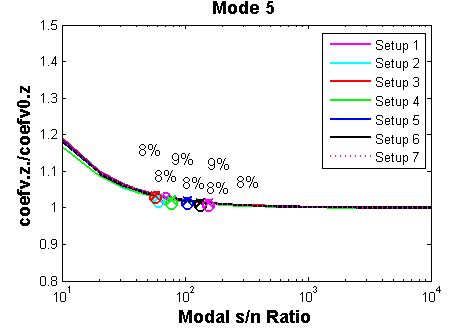
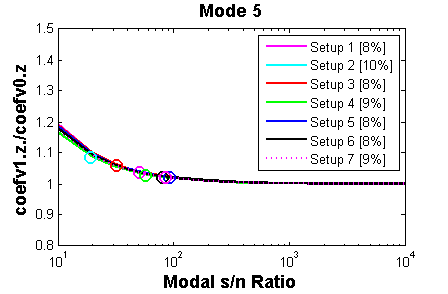
update to 3 axis

diff --git a/_database/2016-05-24-Brodie-Tower-Data.md b/_database/2016-05-24-Brodie-Tower-Data.md
@@ -4,7 +4,7 @@ title: 160524 Brodie Tower
 date: 2016-05-24 16:05:00
 author: Yichen Zhu
 setupno: 7
-locationno: 5
+locationno: 29
 datadl: Available
 ---
 
@@ -39,7 +39,7 @@ datadl: Available
   </tr>
   <tr>
     <td class="header"><b>Equipment</b></td>
-    <td>4 triaxial servo-accelerometers with 24 bit digitizer and individual high precision clock</td>
+    <td>5 triaxial servo-accelerometers with 24 bit digitizer and individual high precision clock</td>
   </tr>
   <tr>
     <td class="header"><b>No. of Participants</b></td>
@@ -60,7 +60,7 @@ datadl: Available
   <tr>
   <td class="header"><b>Data</b></td>
   <td>
-    <a href="http://gofile.me/3sin6/wqWI4T0cI"><b>Download</b></a> (15.2Mb)
+    <a href="http://gofile.me/3sin6/YJvW4c0o4"><b>Download</b></a> (24.7Mb)
   </td>
   </tr>
 </table>
@@ -159,8 +159,8 @@ datadl: Available
 
   <tr>
    <td><center> 1 </center></td>
-   <td><center> 782 </center></td>
-   <td><center> 1148 </center></td>
+   <td><center> 1189 </center></td>
+   <td><center> 1761 </center></td>
    <td><center> 2.42 </center></td>
    <td><center> 0.21 </center></td>
    <td><center> 0.99 </center></td>
@@ -192,8 +192,8 @@ datadl: Available
   </tr>
   <tr>
    <td><center> 2 </center></td>
-   <td><center> 678 </center></td>
-   <td><center> 1656 </center></td>
+   <td><center> 970 </center></td>
+   <td><center> 2411 </center></td>
    <td><center> 2.71 </center></td>
    <td><center> 0.26 </center></td>
    <td><center> 0.96 </center></td>
@@ -225,13 +225,13 @@ datadl: Available
   </tr>
   <tr>
    <td><center> 3 </center></td>
-   <td><center> 1744 </center></td>
-   <td><center> 5281 </center></td>
+   <td><center> 1413 </center></td>
+   <td><center> 6365 </center></td>
    <td><center> 3.75 </center></td>
    <td><center> 0.25 </center></td>
    <td><center> 0.82 </center></td>
    <td><center> 11 </center></td>
-   <td><center> 0.99 </center></td>
+   <td><center> 1.00 </center></td>
    <td><center> 56 </center></td>
    <td><center><a href="#openModal3-1">View</a></center>
     <div id="openModal3-1" class="modalDialog">
@@ -259,12 +259,12 @@ datadl: Available
   <tr>
    <td><center> 4 </center></td>
    <td><center> 26 </center></td>
-   <td><center> 62 </center></td>
-   <td><center> 7.40 </center></td>
+   <td><center> 40 </center></td>
+   <td><center> 7.41 </center></td>
    <td><center> 0.28 </center></td>
-   <td><center> 2.64 </center></td>
+   <td><center> 2.69 </center></td>
    <td><center> 18 </center></td>
-   <td><center> 0.56 </center></td>
+   <td><center> 0.58 </center></td>
    <td><center> 18 </center></td>
    <td><center><a href="#openModal4-1">View</a></center>
     <div id="openModal4-1" class="modalDialog">
@@ -291,14 +291,14 @@ datadl: Available
   </tr>
   <tr>
    <td><center> 5 </center></td>
-   <td><center> 58 </center></td>
-   <td><center> 157 </center></td>
+   <td><center> 19 </center></td>
+   <td><center> 92 </center></td>
    <td><center> 8.00 </center></td>
-   <td><center> 0.38 </center></td>
-   <td><center> 2.55 </center></td>
+   <td><center> 0.33 </center></td>
+   <td><center> 2.58 </center></td>
    <td><center> 12 </center></td>
-   <td><center> 0.86 </center></td>
-   <td><center> 30 </center></td>
+   <td><center> 0.89 </center></td>
+   <td><center> 28 </center></td>
    <td><center><a href="#openModal5-1">View</a></center>
     <div id="openModal5-1" class="modalDialog">
   	<div>
@@ -322,39 +322,7 @@ datadl: Available
     </div>
    </td>
   </tr>
-  <tr>
-   <td><center> 6 </center></td>
-   <td><center> 49 </center></td>
-   <td><center> 288 </center></td>
-   <td><center> 9.46 </center></td>
-   <td><center> 0.25 </center></td>
-   <td><center> 1.93 </center></td>
-   <td><center> 16 </center></td>
-   <td><center> 0.87 </center></td>
-   <td><center> 23 </center></td>
-   <td><center><a href="#openModal6-1">View</a></center>
-    <div id="openModal6-1" class="modalDialog">
-  	<div>
-  		<a href="#close" title="Close" class="close">X</a>
-      <center>
-      <img src="{{ site.baseurl }}/img/database/16-10-28-brodie/trackmode6.png" style="width: 800px;" >
-      <p><i>Track Information Mode 6</i></p>
-      </center>
-  	</div>
-   </div>
-   </td>
-   <td><center><a href="#openModal6-2">View</a></center>
-    <div id="openModal6-2" class="modalDialog">
-  	<div>
-  		<a href="#close" title="Close" class="close">X</a>
-      <center>
-      <img src="{{ site.baseurl }}/img/database/16-10-28-brodie/idmode6.avi.gif" style="width: 800px;" >
-      <p><i>Identification Results Mode 6</i></p>
-      </center>
-  	</div>
-    </div>
-   </td>
-  </tr>
+
 </table>
 
 <table id="myTable2">
@@ -432,35 +400,31 @@ datadl: Available
     <center>
     <div class="slideshow-container">
      <div class="mySlides3" >
-       <div class="numbertext">1 / 6</div>
+       <div class="numbertext">1 / 5</div>
        <img src="{{ site.baseurl }}/img/database/16-10-28-brodie/mode1.png" style="width:80%">
        <div class="text"></div>
      </div>
 
      <div class="mySlides3">
-       <div class="numbertext">2 / 6</div>
+       <div class="numbertext">2 / 5</div>
        <img src="{{ site.baseurl }}/img/database/16-10-28-brodie/mode2.png" style="width:80%">
      </div>
 
      <div class="mySlides3">
-       <div class="numbertext">3 / 6</div>
+       <div class="numbertext">3 / 5</div>
        <img src="{{ site.baseurl }}/img/database/16-10-28-brodie/mode3.png" style="width:80%">
      </div>
 
      <div class="mySlides3">
-       <div class="numbertext">4 / 6</div>
+       <div class="numbertext">4 / 5</div>
        <img src="{{ site.baseurl }}/img/database/16-10-28-brodie/mode4.png" style="width:80%">
      </div>
 
      <div class="mySlides3">
-       <div class="numbertext">5 / 6</div>
+       <div class="numbertext">5 / 5</div>
        <img src="{{ site.baseurl }}/img/database/16-10-28-brodie/mode5.png" style="width:80%">
      </div>
 
-     <div class="mySlides3">
-       <div class="numbertext">6 / 6</div>
-       <img src="{{ site.baseurl }}/img/database/16-10-28-brodie/mode6.png" style="width:80%">
-     </div>
 
      <a class="prev" onclick="plusSlides3(-1)">&#10094;</a>
      <a class="next" onclick="plusSlides3(1)">&#10095;</a>
@@ -473,7 +437,6 @@ datadl: Available
    <span class="dot3" onclick="currentSlide3(3)"></span>
    <span class="dot3" onclick="currentSlide3(4)"></span>
    <span class="dot3" onclick="currentSlide3(5)"></span>
-   <span class="dot3" onclick="currentSlide3(6)"></span>
    </div>
    </center>
    <script src="{{ site.baseurl }}/js/slideshow3.js"></script>
